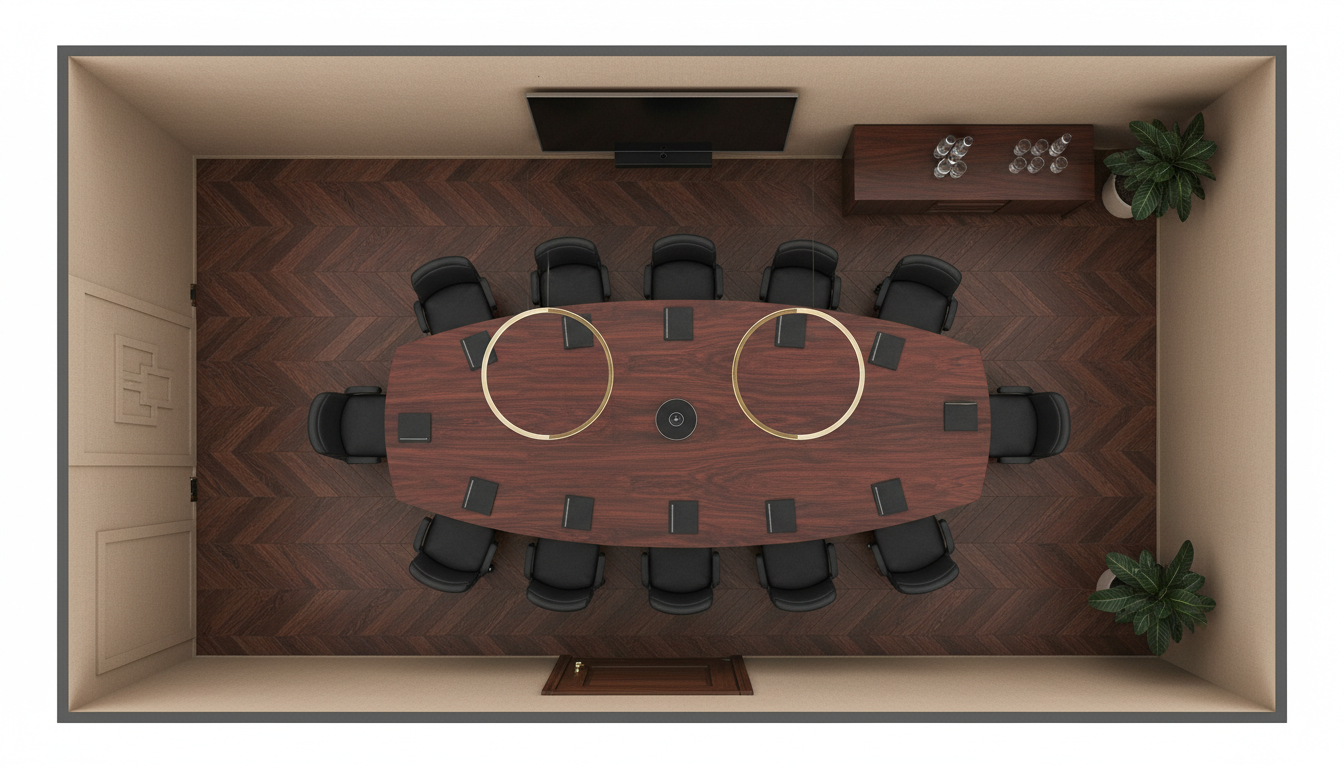
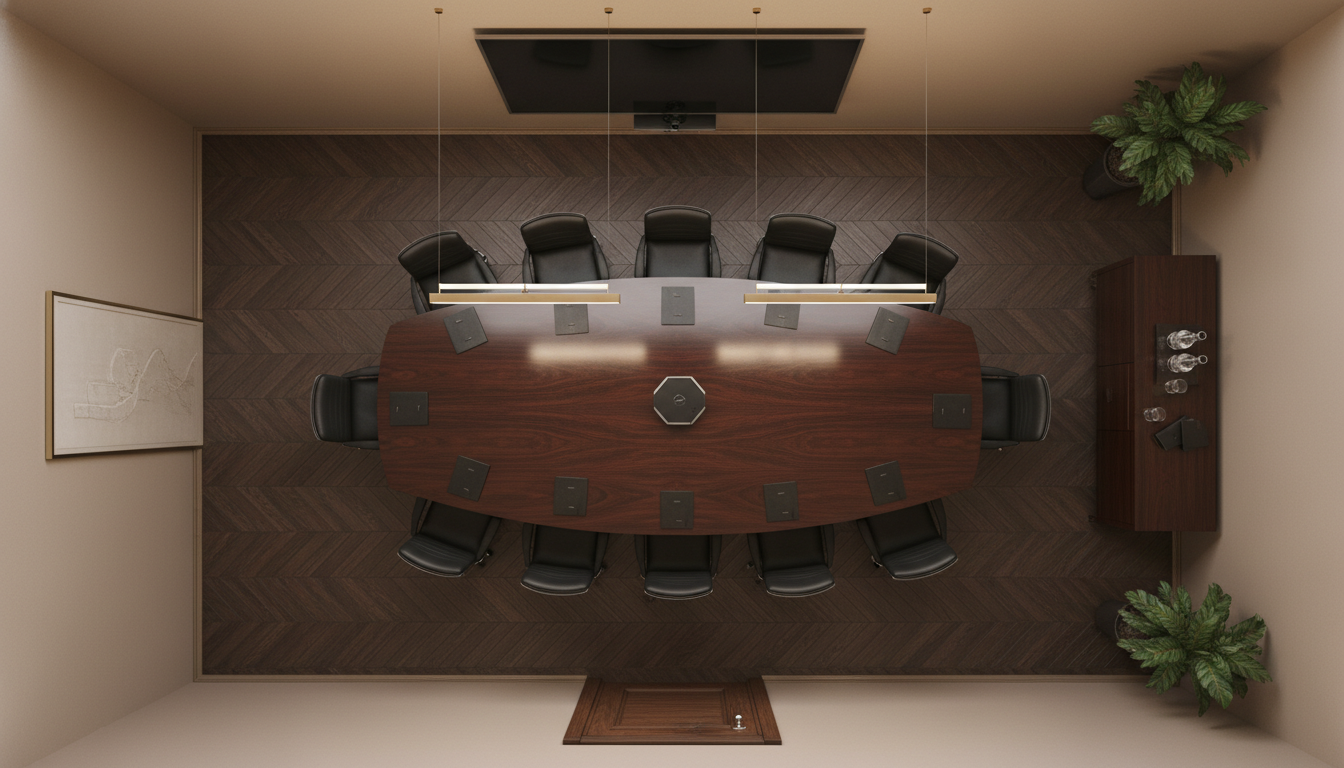
役員会議室の謎の丸トレー2個を排除して再生成 (v=14)

diff --git a/scripts/gen_floor.js b/scripts/gen_floor.js
@@ -57,7 +57,8 @@ Layout: 3F EXECUTIVE BOARDROOM - high-end formal executive boardroom for board m
 - Floor: dark herringbone hardwood (instead of standard plank)
 - Center: LARGE BOAT-SHAPED conference table made of HIGHLY POLISHED DARK MAHOGANY (you can see the rich grain and reflective sheen from above), seats 12
 - Around table: 12 high-back executive chairs in BLACK SOFT LEATHER (slightly larger circles than normal chairs to suggest premium size), seen from directly above
-- Center of table: a sleek BLACK CONFERENCE SPEAKER PHONE (round, dark) and small leather portfolio at each seat
+- Center of table: ONE single sleek BLACK CONFERENCE SPEAKER PHONE (round, dark, octagonal) placed exactly at the geometric center of the table. Small leather portfolio at each seat.
+- ABSOLUTELY NO other round objects on the table top: NO wooden trays, NO round mats, NO Lazy Susans, NO circular placemats, NO bowls. The table surface should be CLEAN dark mahogany except for the single speaker phone in the center and the leather portfolios at each seat.
 - Upper wall: VERY LARGE wall-mounted PRESENTATION DISPLAY (a long dark rectangle, premium thin bezel) with a slim CONFERENCE CAMERA BAR mounted just below it
 - Right wall: low SLEEK CREDENZA in dark wood with neat row of crystal water carafes, glasses, leather notebooks
 - Left wall: tall vertical accent panel with subtle decoration (no text)

diff --git a/public/index.html b/public/index.html
@@ -950,7 +950,7 @@ function resize() {
 let stdLogo = null;
 function loadBackground(src) {
   bgImage = new Image();
-  bgImage.src = (src || '/assets/office_bg.png') + '?v=13';
+  bgImage.src = (src || '/assets/office_bg.png') + '?v=14';
   if (!stdLogo) {
     stdLogo = new Image();
     stdLogo.src = '/assets/std_logo.png?v=1';
